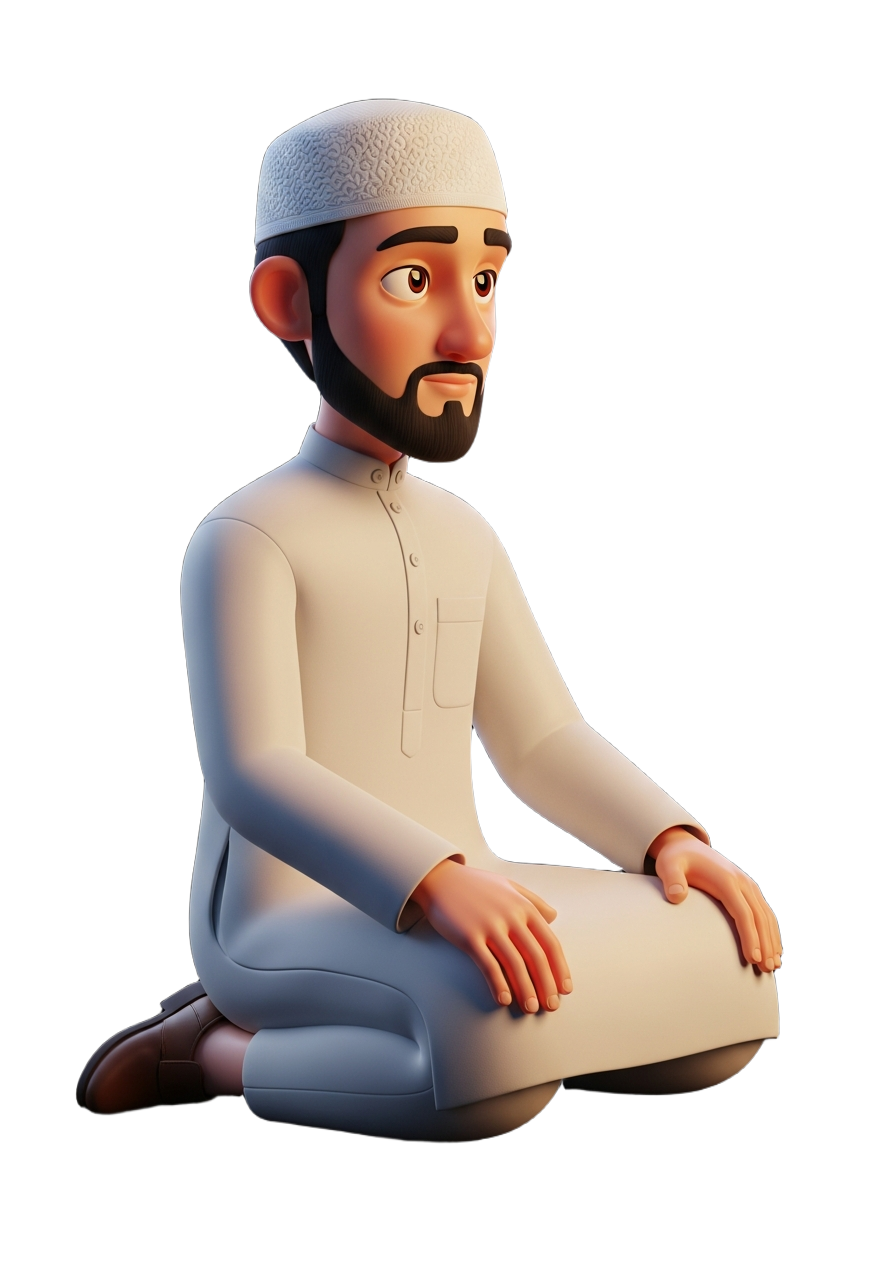
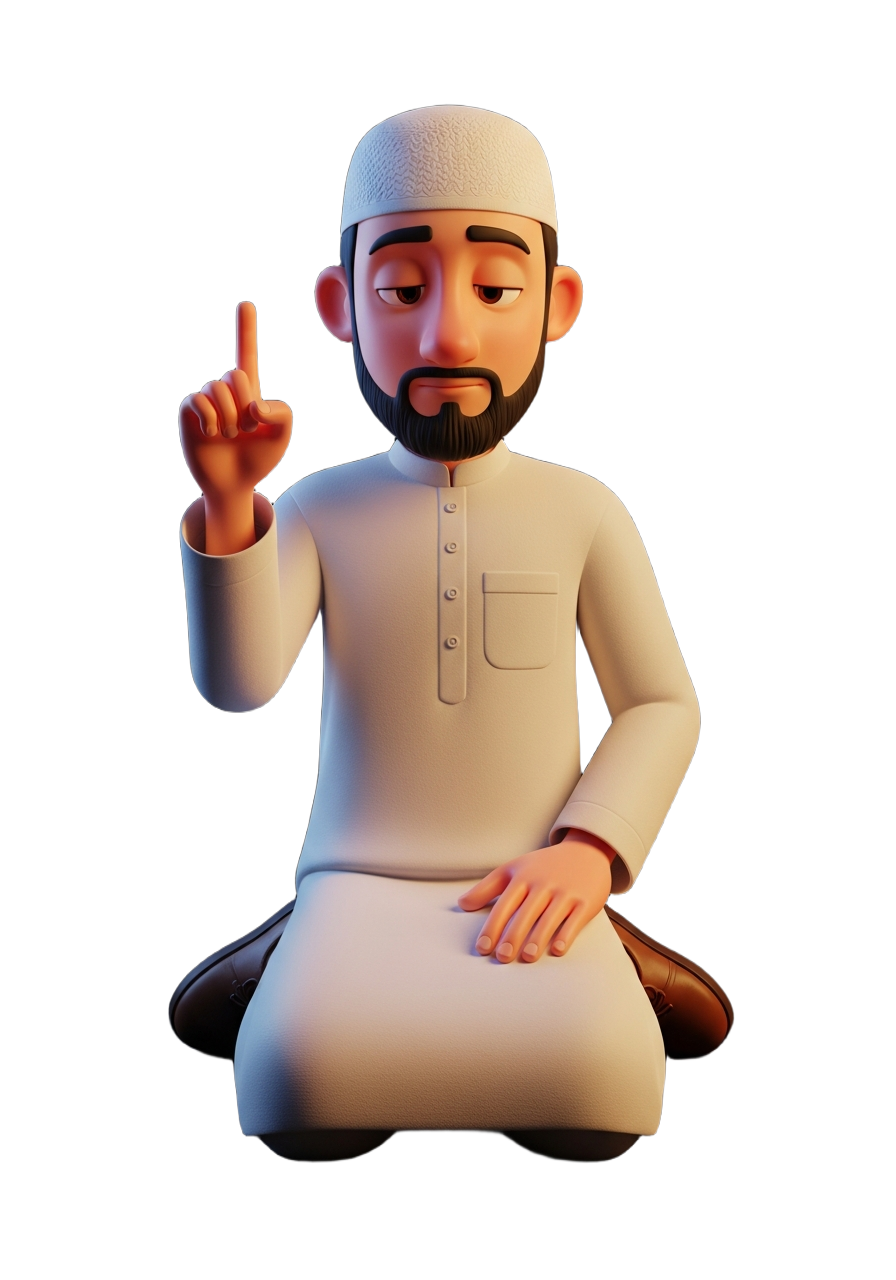
Add guiding mascot messages and updated prayer images
Update images for prayer steps 12, 13, and 14. Add new mascot messages for the '/learn-prayer' and '/wudu' routes in TutorialMascot.tsx.

Replit-Commit-Author: Agent
Replit-Commit-Session-Id: 97318adc-63a5-4d9c-ab83-c3de9fe3f10b
Replit-Commit-Checkpoint-Type: full_checkpoint
Replit-Commit-Event-Id: be841151-ab0d-4f49-a3fa-c7e3b2326cac
Replit-Commit-Screenshot-Url: https://storage.googleapis.com/screenshot-production-us-central1/9410dbae-8893-49d0-83a1-e22fa83b460c/97318adc-63a5-4d9c-ab83-c3de9fe3f10b/SDZmzNc
Replit-Helium-Checkpoint-Created: true

diff --git a/artifacts/noor/src/components/TutorialMascot.tsx b/artifacts/noor/src/components/TutorialMascot.tsx
@@ -172,6 +172,25 @@ const ROUTE_MESSAGES: Record<string, string> = {
 • زر + / − لضبط سرعة العرض
 • مفيد جداً لمن يريد ختم القرآن بسرعة
 • السرعة المثلى: ما تفهم معها وتتدبّر`,
+
+  '/learn-prayer': `تعلم الصلاة خطوة بخطوة 🕌
+
+• الصلاة 14 خطوة من النية حتى التسليم
+• كل خطوة فيها:
+  — النص العربي الكامل بالتشكيل
+  — النطق بالحروف اللاتينية
+  — شرح الحركة والوضعية
+• الأحمر = ركن (واجب) / الذهبي = سنة
+• اضغط على أي خطوة في القائمة للقفز إليها`,
+
+  '/wudu': `دليل الوضوء الكامل 💧
+
+• الوضوء 10 خطوات مرتّبة
+• كل خطوة محددة بـ:
+  — فرض (لازم) أو سنة (مستحب) أو مستحب
+  — عدد مرات الغسل
+  — نقاط عملية للتنفيذ الصحيح
+• في الأسفل: دعاء الفراغ من الوضوء كاملاً`,
 };
 
 /* ─────────────────────────────────────────────────────────────
